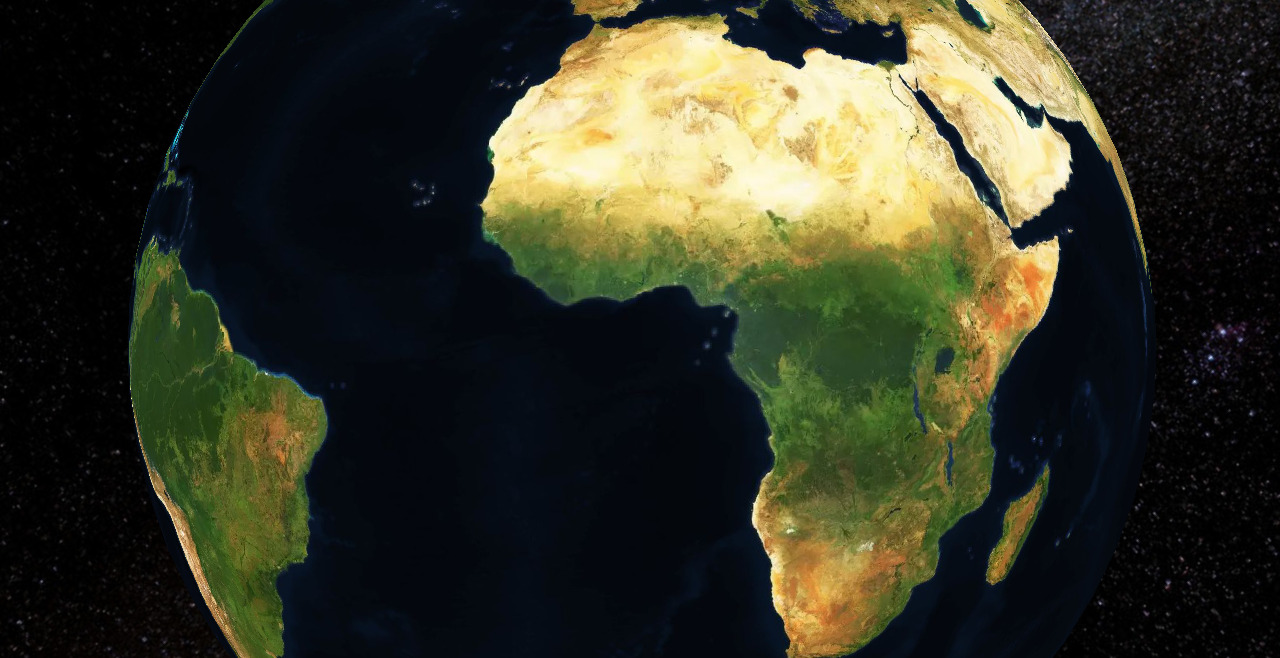
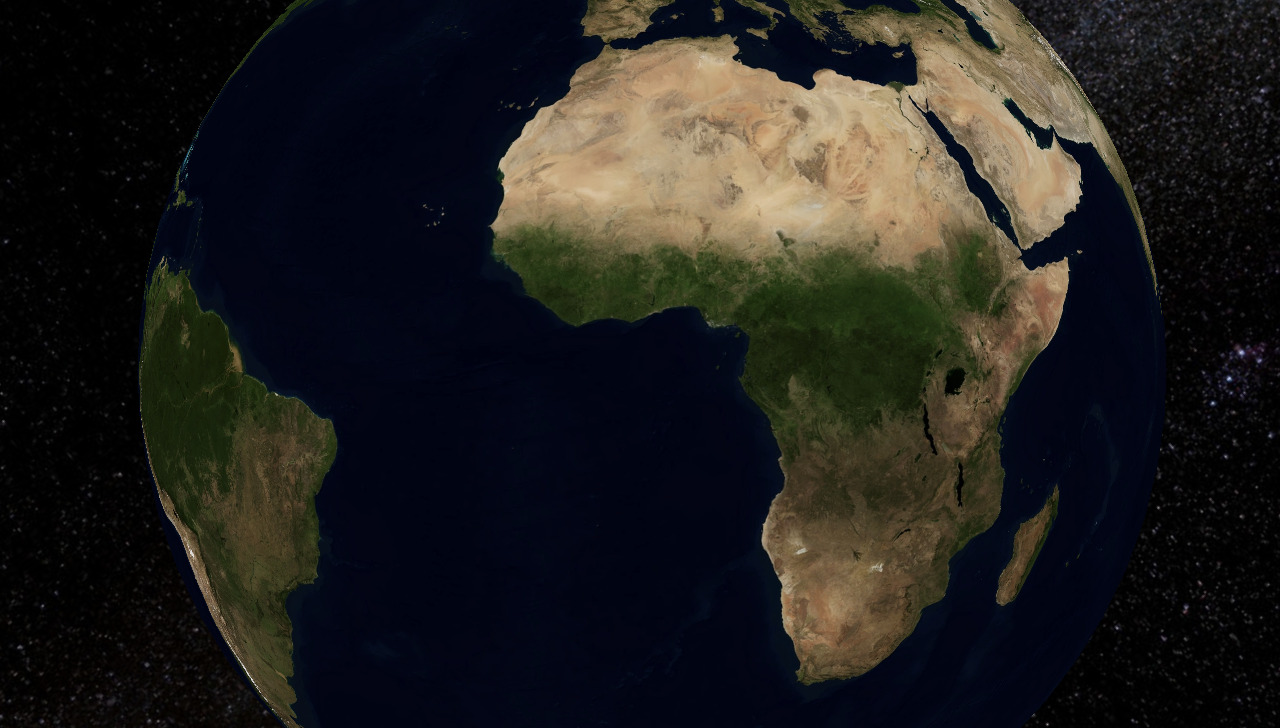
updated raster

diff --git a/src/App/Raster/index.js b/src/App/Raster/index.js
@@ -1,7 +1,73 @@
-import React from 'react'
-import Map from '../map'
+import React, { useState, useEffect, useRef } from 'react'
+import { S2Map } from '../../s2'
 import style from './style.json'
 
-function Raster () { return <Map style={style} opts={{ darkMode: true }} /> }
+import './raster.css'
+
+function Raster () {
+  const [month, setMonth] = useState(7)
+  const [active, setActive] = useState(false)
+  const [mapContainer, setMap] = useState()
+  let map = useRef(null)
+
+  // cause a prep of data
+  useEffect(() => {
+    if (mapContainer) { map.current = prepCanvas(mapContainer, { darkMode: true }) }
+    // componentWillUnmount equivalent:
+    return () => { if (map.current) map.current.delete() }
+  }, [mapContainer])
+
+  const monthDropdown = <div id="raster-dropdown-content">
+    {
+      [...Array(12).keys()].map(num => {
+        return <div className={num === month ? 'raster-gray' : 'raster-drop'} key={num} onClick={() => {
+          if (num !== month) {
+            setMonth(num)
+            style.sources.satellite.path = `https://s3.s2maps.io/modis-v1/${num}`
+            map.current.setStyle(style)
+          }
+        }}>{toMonth(num)}</div>
+      })
+    }
+  </div>
+
+  return <div>
+    <div id='map-container' ref={c => setMap(c)} />
+    <div id="raster-dropdown-container" onClick={() => { setActive(!active) }}>
+      <div id="raster-dropdown">Set Current Month: {toMonth(month)}</div>
+      {active ? monthDropdown : null}
+    </div>
+  </div>
+}
+
+function prepCanvas (container, opts = {}) {
+  const map = new S2Map({
+    ...opts,
+    style,
+    container,
+    projection: 'blend',
+    zoomController: true
+  })
+
+  return map
+}
+
+function toMonth (month: number): string {
+  switch (month) {
+    case 0: return 'January'
+    case 1: return 'February'
+    case 2: return 'March'
+    case 3: return 'April'
+    case 4: return 'May'
+    case 5: return 'June'
+    case 6: return 'July'
+    case 7: return 'August'
+    case 8: return 'September'
+    case 9: return 'October'
+    case 10: return 'November'
+    case 11:
+    default: return 'December'
+  }
+}
 
 export default Raster

diff --git a/src/App/Home/index.js b/src/App/Home/index.js
@@ -61,9 +61,9 @@ function Home () {
 
           <Link to='/raster' className='link-container'>
             <picture>
-              <source async loading='lazy' width='640px' height='329px' alt='raster' srcSet={RasterWEBP} type='image/webp' />
-              <source async loading='lazy' width='640px' height='329px' alt='raster' srcSet={RasterJPG} type='image/jpeg' />
-              <img async loading='lazy' width='640px' height='329px' alt='raster' src={RasterJPG} />
+              <source async loading='lazy' width='640px' height='363px' alt='raster' srcSet={RasterWEBP} type='image/webp' />
+              <source async loading='lazy' width='640px' height='363px' alt='raster' srcSet={RasterJPG} type='image/jpeg' />
+              <img async loading='lazy' width='640px' height='363px' alt='raster' src={RasterJPG} />
             </picture>
             <div className='link-name'>Raster</div>
           </Link>

diff --git a/src/s2/ui/camera/projections/projector.js b/src/s2/ui/camera/projections/projector.js
@@ -56,13 +56,14 @@ export default class Projector implements Projection {
     if (config.canvasMultiplier) this.multiplier = config.canvasMultiplier
   }
 
-  setStyleParameters (style) {
+  setStyleParameters (style, ignorePosition: boolean) {
     const { minzoom, maxzoom, zoom, lon, lat } = style
     // clamp values and ensure minzoom is less than maxzoom
     this.minzoom = (minzoom < -10) ? -10 : (minzoom > maxzoom) ? maxzoom - 1 : (minzoom > 29) ? 29 : minzoom
     this.maxzoom = (maxzoom > 30) ? 30 : (maxzoom < this.minzoom) ? this.minzoom + 1 : maxzoom
     // set position
-    this.setPosition(lon, lat, zoom)
+    if (!ignorePosition) this.setPosition(lon, lat, zoom)
+    else this.dirty = true // ensure this projector is dirty (incase of ignorePosition === true)
   }
 
   setPosition (lon: number, lat: number, zoom: number) {

diff --git a/src/s2/ui/map.js b/src/s2/ui/map.js
@@ -62,7 +62,7 @@ export default class Map extends Camera {
     // style will tell the painter what programs it will be using
     this.style = new Style(options, this)
     // build style
-    this.setStyle(style)
+    this.setStyle(style, false)
   }
 
   delete () {
@@ -76,13 +76,13 @@ export default class Map extends Camera {
     this.painter.delete()
   }
 
-  setStyle (style: string | Object) {
+  setStyle (style: string | Object, ignorePosition: boolean) {
     // incase style was imported, clear cache
     this.clearCache()
     // build style for the map, painter, and webworkers
     this.style.buildStyle(style)
     // inject minzoom and maxzoom
-    this.projection.setStyleParameters(this.style)
+    this.projection.setStyleParameters(this.style, ignorePosition)
     // render our first pass
     this.render()
   }

diff --git a/src/s2/workers/map.worker.js b/src/s2/workers/map.worker.js
@@ -21,7 +21,7 @@ export default class MapWorker implements Worker {
     else if (type === 'touchend') this.map.dragPan.onTouchEnd(data.touchEvent)
     else if (type === 'touchmove') this.map.dragPan.onTouchMove(data.touchEvent)
     else if (type === 'nav') this.map.navEvent(data.ctrl)
-    else if (type === 'setStyle') this.map.setStyle(data.style)
+    else if (type === 'setStyle') this.map.setStyle(data.style, data.ignorePosition)
     else if (type === 'jumpTo') this.map.jumpTo(data.lon, data.lat, data.zoom)
     else if (type === 'moveState') this.map.canMove = !!data.state
     else if (type === 'zoomState') this.map.canZoom = !!data.state

diff --git a/src/s2/s2Map.js b/src/s2/s2Map.js
@@ -236,10 +236,10 @@ export default class S2Map extends EventTarget {
   }
 
   /** API **/
-  setStyle (style: Object) { // $FlowIgnore
+  setStyle (style: Object, ignorePosition: boolean = true) { // $FlowIgnore
     const { _offscreen, map } = this
-    if (_offscreen && map) map.postMessage({ type: 'setStyle', style }) // $FlowIgnore
-    else if (map) map.setStyle(style)
+    if (_offscreen && map) map.postMessage({ type: 'setStyle', style, ignorePosition }) // $FlowIgnore
+    else if (map) map.setStyle(style, ignorePosition)
   }
 
   setMoveState (state: boolean) { // $FlowIgnore

diff --git a/src/App/Raster/raster.css b/src/App/Raster/raster.css
@@ -1,0 +1,30 @@
+#raster-dropdown-container {
+  position: absolute;
+  padding: 6px 10px;
+  right: 15px;
+  top: 15px;
+  border-radius: 5px;
+  background-color: #ededed;
+  font-weight: bold;
+  cursor: pointer;
+  text-align: left;
+  box-shadow: 0px 8px 16px 0px rgba(0,0,0,0.2);
+}
+
+#raster-dropdown {
+  padding: 9px;
+}
+
+#raster-dropdown-content div {
+  padding: 9px 9px;
+  text-decoration: none;
+  border-radius: 5px;
+}
+
+.raster-drop:hover {
+  background-color: #acb2b8;
+}
+
+.raster-gray {
+  color: #555a5e;
+}

diff --git a/src/s2/ui/camera/index.js b/src/s2/ui/camera/index.js
@@ -224,7 +224,6 @@ export default class Camera {
   _draw () {
     // dummy check, if nothing has changed, do nothing
     if (!this.painter.dirty && !this.style.dirty && !this.projection.dirty) return
-    // console.log('this.projection', this.projection)
     // prep tiles
     const tiles = this._getTiles()
     // paint scene
